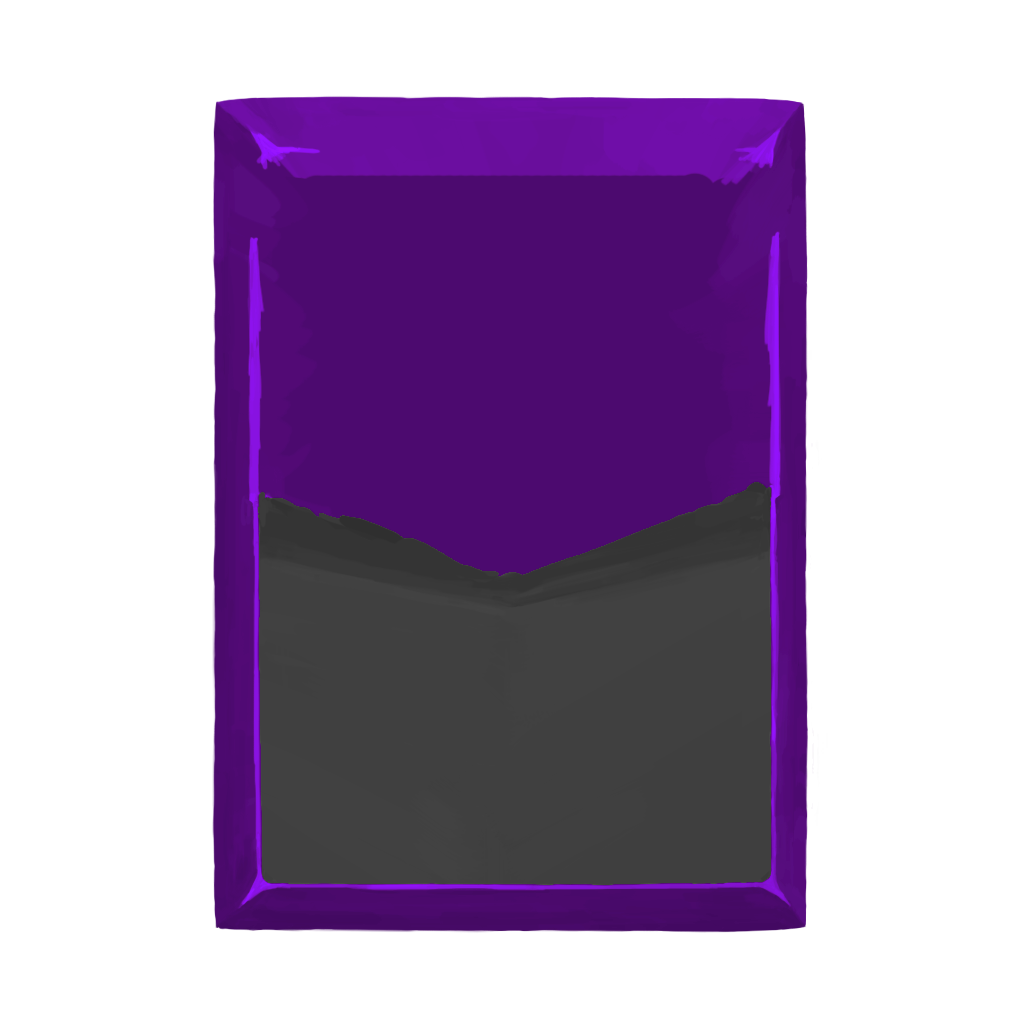
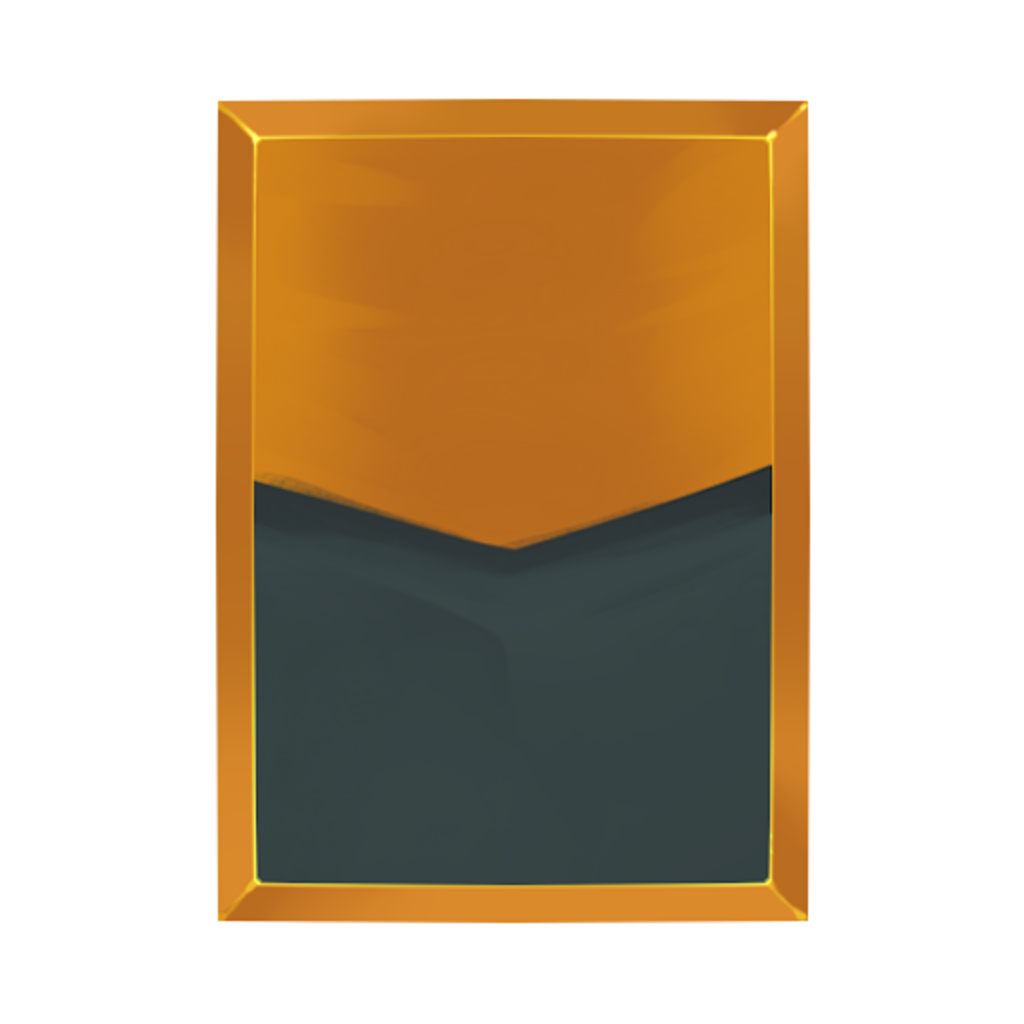
A few card changes. New card border color.

diff --git a/src/main/java/juggermod/cards/ShoulderBlow.java b/src/main/java/juggermod/cards/ShoulderBlow.java
@@ -31,7 +31,7 @@ public class ShoulderBlow extends CustomCard{
     public ShoulderBlow() {
         super(ID, NAME, JuggerMod.makePath(JuggerMod.SHOULDER_BLOW), COST, DESCRIPTION, AbstractCard.CardType.ATTACK,
                 AbstractCardEnum.BROWN, AbstractCard.CardRarity.COMMON, AbstractCard.CardTarget.ENEMY, POOL);
-        this.magicNumber = this.baseMagicNumber = 3;
+        this.magicNumber = this.baseMagicNumber = PLATE_AMT;
         this.baseDamage = ATTACK_DMG;
     }
     @Override

diff --git a/src/main/java/juggermod/cards/LashOut.java b/src/main/java/juggermod/cards/LashOut.java
@@ -18,7 +18,7 @@ public class LashOut extends CustomCard{
     public static final String NAME = cardStrings.NAME;
     public static final String DESCRIPTION = cardStrings.DESCRIPTION;
     private static final int COST = 1;
-    private static final int ATTACK_DMG = 4;
+    private static final int ATTACK_DMG = 2;
     private static final int ATTACK_UPGRADE = 0;
     private static final int NUM_ATTACKS = 3;
     private static final int NUM_ATTACKS_UPGRADE = 1;

diff --git a/src/main/java/juggermod/cards/Overexert.java b/src/main/java/juggermod/cards/Overexert.java
@@ -33,6 +33,7 @@ public class Overexert extends CustomCard{
                 AbstractCard.CardRarity.COMMON, AbstractCard.CardTarget.SELF, POOL);
         this.baseMagicNumber = DRAW;
         this.magicNumber = DRAW;
+        this.exhaust = true;
     }
 
     @Override
